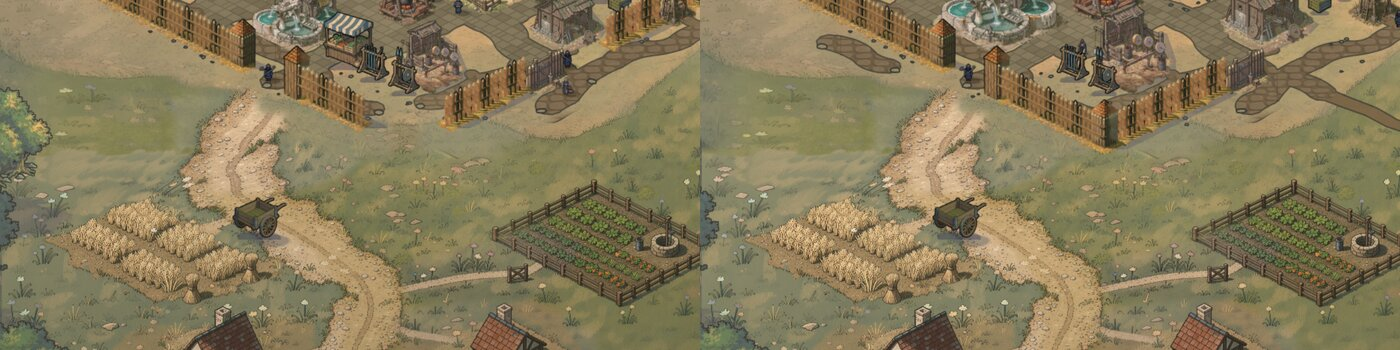
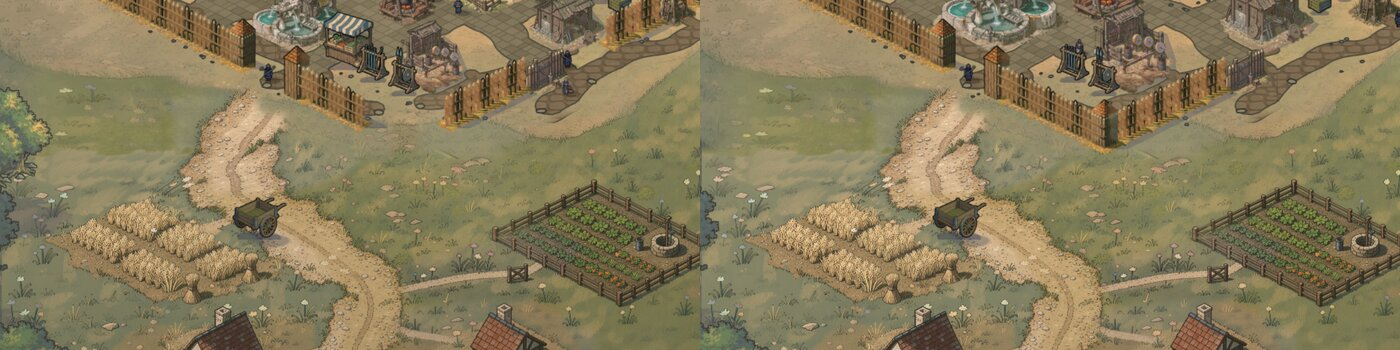
docs(layout): final crops of the south gate at tier 6, numbers
Claude-Session: https://claude.ai/code/session_016PyBattknJAtyEqh7E1ngo

Changed region(s): [[0.9214, 0.2, 1.0, 0.3714], [0.5836, 0.0857, 0.645, 0.2286], [0.7679, 0.1143, 0.7986, 0.1429]]

diff --git a/docs/designs/village/layout/paliers.md b/docs/designs/village/layout/paliers.md
@@ -189,4 +189,4 @@ Rue nord : `occlusion 0, anchors 0, props 8, depth 0, hooks 8, tap 0, motion 0`,
 - **Sol cuit, manifeste, champs, emplacements de décor** : vérifiés, rien d'obsolète à recalculer. Le manifeste de tampons du sol cuit (`docs/designs/village-loop/loupes/bc/r6/stamps.json`) ne contient qu'un tampon, `[25, 24]` bande `t4-6`, dans le coin sud verrouillé, sans rapport avec les bâtiments déplacés. Les 12 tuiles de terrain peint ne dépendent d'aucune position de bâtiment (aucun trou, bandes jour et nuit des 12 paliers regardées : `img/prop-strip-jour.jpg`, `prop-strip-nuit.jpg`). Les champs (`champs` dans `isoLayout.json`) n'ont pas bougé et sont au palier 4. Les emplacements de décor sont les accessoires ci-dessus. Ce qu'on ne peut pas réparer sans repeindre : les polygones sombres du sud aux paliers 1 à 3 (`img/sol-polygones-t1.jpg`), la couture verticale et le bord du terrain à 0,43 (`img/sol-couture-t12.jpg`, `sol-t12-plancher.jpg`).
 - **Chemins des villageois** : `node scripts/layout/chemins.cjs` planifie 480 vagues par palier (12 jours x 40 numéros) avec le `planifierVague` de l'appli et vérifie chaque case parcourue : sur l'île, herbe, chemin ou pont, hors de tout plot et de toute section de rempart. Résultat aux 12 paliers : 0 violation (aucun pas sur l'eau, un bâtiment ou une route supprimée), les villageois marchent sur les deux rives (1770 à 10164 cases côté ouest selon le palier) et ne traversent jamais l'eau (0 pas sur un pont : chaque rive a ses métiers).
 - **Plancher 0,43 et paliers** : `img/plancher-t1-t6-t12.jpg`. À 0,43 l'île entière tient en largeur aux paliers 6 et 12 (le palier 1 est petit au centre). Le jeu ne recule pas en deçà (`cadrageComplet`). L'ouverture et les bornes se calculent sur `visible` de chaque palier, et les paliers ne font que croître : rien ne recule d'un palier à l'autre (les bâtiments, les cases, les stades et les accessoires par palier ne font qu'avancer). Défaut visible au plancher : bande sombre plate en haut de la carte et découpe carrée en bas de la route sud (bords du terrain peint).
-- **Le crop `porte` jusqu'au palier 6** : au palier 6 il est identique en art et en cases : les douze cases de chemin nouvelles de la fenêtre sont retenues à leur ancien palier (`RETENUES`). Seuls restent le pont ouest (1 et 2, 10, hors fenêtre) et une différence de lumière : le voile du sol (`voileVillage`) suit l'île, plus grande, et éclaircit le champ et la route de 5 niveaux de gris en moyenne (118,4 contre 123,8 sur la moitié basse du crop). Aux paliers 4 et 5 le coin est neuf (avant le plan il n'arrivait qu'au 6), donc rien à comparer. `img/porte-t6-avant-apres.jpg`.
+- **Le crop `porte` jusqu'au palier 6** : au palier 6 il est identique en art et en cases : les douze cases de chemin nouvelles de la fenêtre sont retenues à leur ancien palier (`RETENUES`). Seuls restent le pont ouest (1 et 2, 10, hors fenêtre) et une différence de lumière : le voile du sol (`voileVillage`) suit l'île, plus grande, et éclaircit le champ et la route de 5 niveaux de gris en moyenne (118,4 contre 123,8 sur la moitié basse du crop). Aux paliers 4 et 5 le coin est neuf (avant le plan il n'arrivait qu'au 6), donc rien à comparer. Mesure finale à cadre égal (position monde) : 12,7 % des pixels du crop diffèrent de plus de 8 niveaux, par la lumière du voile, le bas de la place (étal déplacé, fontaine) et le haut du crop ; mur, porte, route, champ et chaumières sont les mêmes. `img/porte-t6-avant-apres.jpg` (avant à gauche, après à droite).
